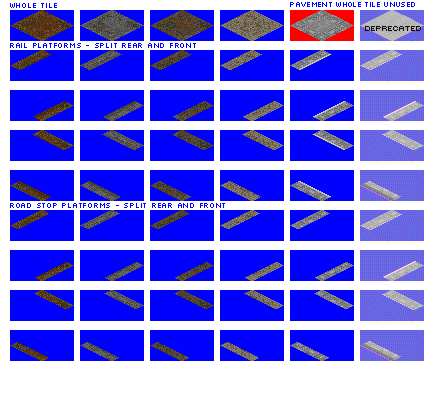
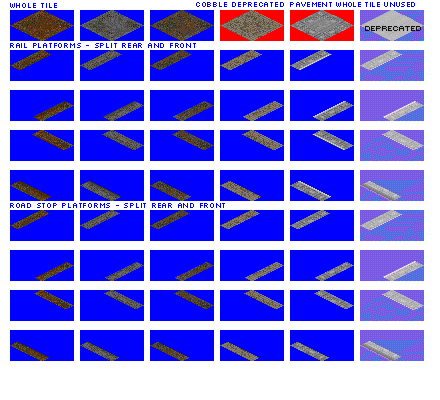
Change: drop 'cobble' ground type, will also be removed from FIRS

Changed region(s): [[0.4432, 0.0, 0.65, 0.12]]

diff --git a/src/ground.py b/src/ground.py
@@ -29,15 +29,6 @@ ground_sprites = {
     "gravel_front_road_platform_ne_sw": (150, 250),
     "gravel_rear_road_platform_nw_se": (150, 290),
     "gravel_front_road_platform_nw_se": (150, 330),
-    "cobble_whole_tile": (220, 10),
-    "cobble_rear_rail_platform_ne_sw": (220, 50),
-    "cobble_front_rail_platform_ne_sw": (220, 90),
-    "cobble_rear_rail_platform_nw_se": (220, 130),
-    "cobble_front_rail_platform_nw_se": (220, 170),
-    "cobble_rear_road_platform_ne_sw": (220, 210),
-    "cobble_front_road_platform_ne_sw": (220, 250),
-    "cobble_rear_road_platform_nw_se": (220, 290),
-    "cobble_front_road_platform_nw_se": (220, 330),
     "pavement_whole_tile": (290, 10),
     "pavement_rear_rail_platform_ne_sw": (290, 50),
     "pavement_front_rail_platform_ne_sw": (290, 90),

diff --git a/src/global_constants.py b/src/global_constants.py
@@ -80,10 +80,6 @@ station_classes_by_metaclass = {
             "default_ground_type": "gravel",
         },
         {
-            "class_id": "INCO",
-            "default_ground_type": "cobble",
-        },
-        {
             "class_id": "INDI",
             "default_ground_type": "dirt",
         },
